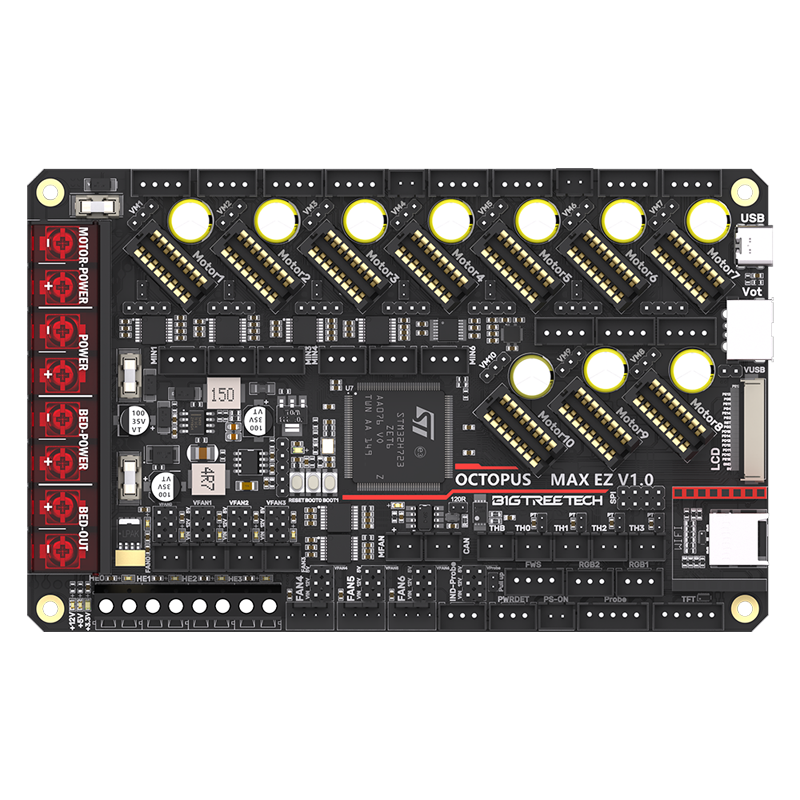
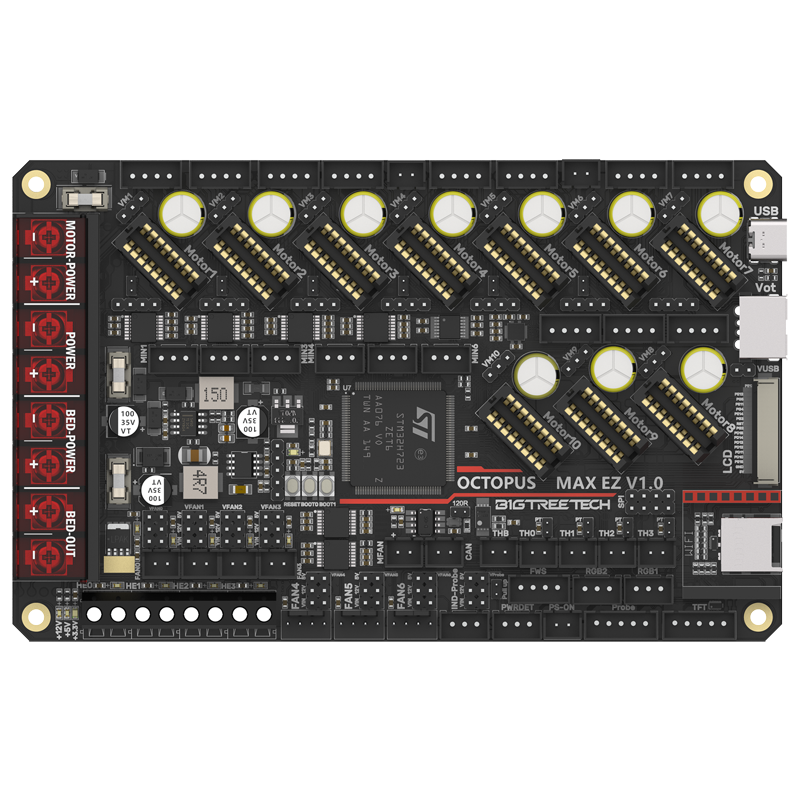
Refactor: wiki intro and image update (#8)
* update max ez image

* update package version

* add: ebb 2209 rp2040 image

* refactor: m8p wiki and wiki image

* refactor: skr pico wiki intro and image

diff --git a/docs/board-docs/skr-series/skr-pico/skr-pico-intro.md b/docs/board-docs/skr-series/skr-pico/skr-pico-intro.md
@@ -13,17 +13,29 @@ import TabItem from '@theme/TabItem';
 
 <!-- import lib end -->
 
-BTT SKR Pico V1.0 是必趣创新科技（深圳）有限公司 3D 打印团队推出的一款专门为 VORON V0 打印机设计的主板。
+<div class="div-table">
 
-## **规格**
+<img 
+    src={require('./img/skr-pico-main.png').default} 
+    width="45%" class="right-image"
+/>
 
-| 外观尺寸                       |        85*56mm        |
-| ------------------------------ | :-------------------: |
-| 板层                           |          4层          |
+## 简介
+
+SKR Pico 是一块专门为 Voron 0 系列设计的板子。可以直接和 Raspberry Pi 系列直接堆叠安装。减少所需要的安装空间。
+
+## Specification
+
+| Specification                  | SKR Pico              |
+| ------------------------------ | --------------------- |
 | MCU                            | ARM Cortex-M0+ RP2040 |
-| 电源输入                       |       DC 12/24V       |
-| 逻辑电压                       |         3.3V          |
-| 电机驱动器                     |     $4*$ TMC2209      |
-| 电机驱动接口                   |  X / Y / Z1 / Z2 / E  |
-| 温度传感器接口                 |       TH0、 THB       |
-| 与Raspberry Pi(树莓派)通信接口 |   USB TYPE-C / 串口   |
+| 外观尺寸                       | 85 * 56mm             |
+| 板层                           | 4层                   |
+| 电源输入                       | DC 12/24V             |
+| 逻辑电压                       | 3.3V                  |
+| 电机驱动器                     | $4*$ TMC2209          |
+| 电机驱动接口                   | X / Y / Z1 / Z2 / E   |
+| 温度传感器接口                 | TH0、 THB             |
+| 与Raspberry Pi(树莓派)通信接口 | USB TYPE-C / 串口     |
+
+</div>

diff --git a/docs/board-docs/manta-series/manta-m8p-v1/manta-m8p-v1-intro.md b/docs/board-docs/manta-series/manta-m8p-v1/manta-m8p-v1-intro.md
@@ -16,16 +16,24 @@ import TabItem from '@theme/TabItem';
 <div class="div-table">
 
 <img 
-    src={require('./img/M8P_title.png').default} 
-    width="55%" class="right-image"
+    src={require('./img/m8p-main.png').default} 
+    width="45%" class="right-image"
 />
 
+## 简介
+
+M8P 亦是在解决 Klipper 接线过于复杂的问题。一体化的 Klipper 电路控制。并且保留 Octopus 系列的部分功能，使得拓展性得到提升。
 
 ## 硬件规格
 
-|Manta M8P v1|Specification|
-|-|-|
-|MCU|ARM Cortex-M0+STM32G0B1VET6 64MHz|
-|尺寸|$170mm \times 102.7mm$|
+| Manta M8P v1.1 | Specification                      |
+| -------------- | ---------------------------------- |
+| MCU            | Arm Cortex-M7 STM32H723ZET6 550MHz |
+| 尺寸           | $170mm \times 102.7mm$             |
+
+| Manta M8P v1 | Specification                      |
+| ------------ | ---------------------------------- |
+| MCU          | ARM Cortex-M0+ STM32G0B1VET6 64MHz |
+| 尺寸         | $170mm \times 102.7mm$             |
 
 </div>

diff --git a/docs/board-docs/ebb-series/ebb-2209-rp2040/ebb-2209-rp2040-intro.md b/docs/board-docs/ebb-series/ebb-2209-rp2040/ebb-2209-rp2040-intro.md
@@ -5,6 +5,21 @@ description: EBB 2209 RP2040 简介
 
 # EBB 2209 RP2040 简介
 
+<div class="div-table">
+
+<img 
+    src={require('./img/ebb2209-rp2040-main.png').default} 
+    width="45%" class="right-image"
+/>
+
 ## 简介
 
 EBB 2209 (RP2040) 是一个适配 voron stealthburner 的工具头板。通过 CAN 线进行连接以简化工具头接线
+
+## Specification
+
+| Specification | EBB 2209 RP2040 |
+| ------------- | --------------- |
+| MCU           | RP 2040         |
+
+</div>
